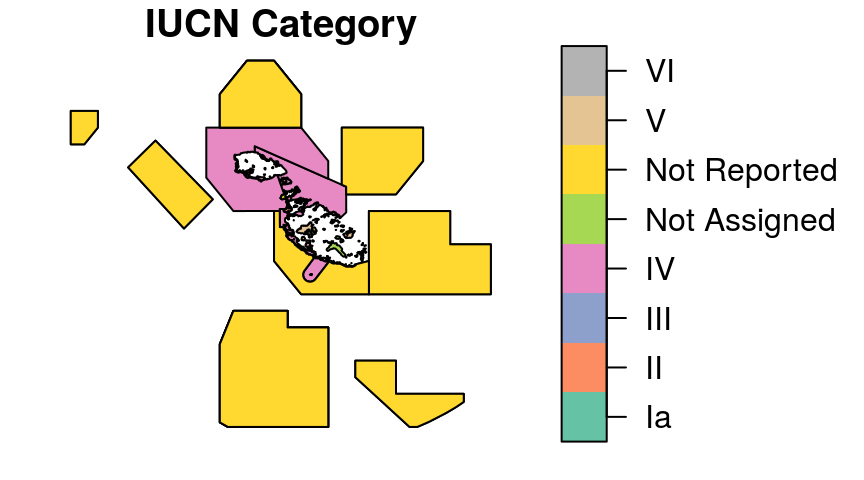
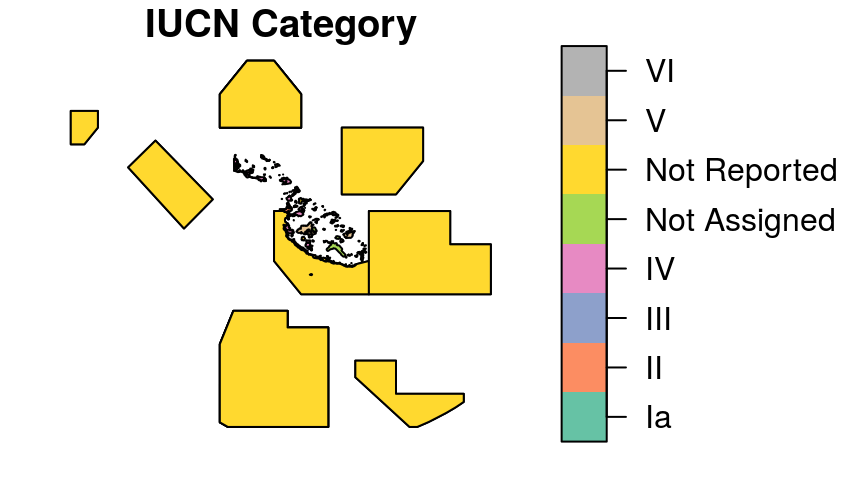
wdpa_clean now snaps geometries to grid

Changed region(s): [[0.2188, 0.25, 0.4062, 0.5], [0.3438, 0.5, 0.375, 0.5938]]

diff --git a/docs/reference/geometric_set_operations.html b/docs/reference/geometric_set_operations.html
@@ -156,19 +156,19 @@ to 1.</p></td>
 <span class='no'>y6</span> <span class='kw'>&lt;-</span> <span class='fu'>st_parallel_sym_difference</span>(<span class='no'>x</span>, <span class='no'>z</span>, <span class='kw'>threads</span> <span class='kw'>=</span> <span class='fl'>2</span>)</div><div class='output co'>#&gt; <span class='warning'>Warning: &lt;anonymous&gt;: ... may be used in an incorrect context: ‘.fun(piece, ...)’</span></div><div class='output co'>#&gt; <span class='warning'>Warning: &lt;anonymous&gt;: ... may be used in an incorrect context: ‘.fun(piece, ...)’</span></div><div class='input'>
 <span class='co'># plot objects for visual comparison</span>
 <span class='fu'>par</span>(<span class='kw'>mfrow</span> <span class='kw'>=</span> <span class='fu'>c</span>(<span class='fl'>4</span>, <span class='fl'>2</span>))
-<span class='fu'>plot</span>(<span class='fu'>st_geometry</span>(<span class='no'>x</span>), <span class='kw'>main</span> <span class='kw'>=</span> <span class='st'>"x"</span>, <span class='kw'>axes</span> <span class='kw'>=</span> <span class='fl'>TRUE</span>, <span class='kw'>col</span> <span class='kw'>=</span> <span class='st'>"lightblue"</span>)
-<span class='fu'>plot</span>(<span class='fu'>st_geometry</span>(<span class='no'>z</span>), <span class='kw'>main</span> <span class='kw'>=</span> <span class='st'>"z"</span>, <span class='kw'>axes</span> <span class='kw'>=</span> <span class='fl'>TRUE</span>, <span class='kw'>col</span> <span class='kw'>=</span> <span class='st'>"lightblue"</span>)
-<span class='fu'>plot</span>(<span class='fu'>st_geometry</span>(<span class='no'>y1</span>), <span class='kw'>main</span> <span class='kw'>=</span> <span class='st'>"sf::st_difference"</span>, <span class='kw'>axes</span> <span class='kw'>=</span> <span class='fl'>TRUE</span>,
+<span class='fu'>plot</span>(<span class='kw'>sf</span><span class='kw'>::</span><span class='fu'>st_geometry</span>(<span class='no'>x</span>), <span class='kw'>main</span> <span class='kw'>=</span> <span class='st'>"x"</span>, <span class='kw'>axes</span> <span class='kw'>=</span> <span class='fl'>TRUE</span>, <span class='kw'>col</span> <span class='kw'>=</span> <span class='st'>"lightblue"</span>)
+<span class='fu'>plot</span>(<span class='kw'>sf</span><span class='kw'>::</span><span class='fu'>st_geometry</span>(<span class='no'>z</span>), <span class='kw'>main</span> <span class='kw'>=</span> <span class='st'>"z"</span>, <span class='kw'>axes</span> <span class='kw'>=</span> <span class='fl'>TRUE</span>, <span class='kw'>col</span> <span class='kw'>=</span> <span class='st'>"lightblue"</span>)
+<span class='fu'>plot</span>(<span class='kw'>sf</span><span class='kw'>::</span><span class='fu'>st_geometry</span>(<span class='no'>y1</span>), <span class='kw'>main</span> <span class='kw'>=</span> <span class='st'>"sf::st_difference"</span>, <span class='kw'>axes</span> <span class='kw'>=</span> <span class='fl'>TRUE</span>,
      <span class='kw'>col</span> <span class='kw'>=</span> <span class='st'>"lightblue"</span>)
-<span class='fu'>plot</span>(<span class='fu'>st_geometry</span>(<span class='no'>y2</span>), <span class='kw'>main</span> <span class='kw'>=</span> <span class='st'>"st_parallel_difference"</span>, <span class='kw'>axes</span> <span class='kw'>=</span> <span class='fl'>TRUE</span>,
+<span class='fu'>plot</span>(<span class='kw'>sf</span><span class='kw'>::</span><span class='fu'>st_geometry</span>(<span class='no'>y2</span>), <span class='kw'>main</span> <span class='kw'>=</span> <span class='st'>"st_parallel_difference"</span>, <span class='kw'>axes</span> <span class='kw'>=</span> <span class='fl'>TRUE</span>,
      <span class='kw'>col</span> <span class='kw'>=</span> <span class='st'>"lightblue"</span>)
-<span class='fu'>plot</span>(<span class='fu'>st_geometry</span>(<span class='no'>y3</span>), <span class='kw'>main</span> <span class='kw'>=</span> <span class='st'>"sf::st_intersection"</span>, <span class='kw'>axes</span> <span class='kw'>=</span> <span class='fl'>TRUE</span>,
+<span class='fu'>plot</span>(<span class='kw'>sf</span><span class='kw'>::</span><span class='fu'>st_geometry</span>(<span class='no'>y3</span>), <span class='kw'>main</span> <span class='kw'>=</span> <span class='st'>"sf::st_intersection"</span>, <span class='kw'>axes</span> <span class='kw'>=</span> <span class='fl'>TRUE</span>,
      <span class='kw'>col</span> <span class='kw'>=</span> <span class='st'>"lightblue"</span>)
-<span class='fu'>plot</span>(<span class='fu'>st_geometry</span>(<span class='no'>y4</span>), <span class='kw'>main</span> <span class='kw'>=</span> <span class='st'>"st_parallel_intersection"</span>, <span class='kw'>axes</span> <span class='kw'>=</span> <span class='fl'>TRUE</span>,
+<span class='fu'>plot</span>(<span class='kw'>sf</span><span class='kw'>::</span><span class='fu'>st_geometry</span>(<span class='no'>y4</span>), <span class='kw'>main</span> <span class='kw'>=</span> <span class='st'>"st_parallel_intersection"</span>, <span class='kw'>axes</span> <span class='kw'>=</span> <span class='fl'>TRUE</span>,
      <span class='kw'>col</span> <span class='kw'>=</span> <span class='st'>"lightblue"</span>)
-<span class='fu'>plot</span>(<span class='fu'>st_geometry</span>(<span class='no'>y5</span>), <span class='kw'>main</span> <span class='kw'>=</span> <span class='st'>"sf::st_sym_difference"</span>, <span class='kw'>axes</span> <span class='kw'>=</span> <span class='fl'>TRUE</span>,
+<span class='fu'>plot</span>(<span class='kw'>sf</span><span class='kw'>::</span><span class='fu'>st_geometry</span>(<span class='no'>y5</span>), <span class='kw'>main</span> <span class='kw'>=</span> <span class='st'>"sf::st_sym_difference"</span>, <span class='kw'>axes</span> <span class='kw'>=</span> <span class='fl'>TRUE</span>,
      <span class='kw'>col</span> <span class='kw'>=</span> <span class='st'>"lightblue"</span>)
-<span class='fu'>plot</span>(<span class='fu'>st_geometry</span>(<span class='no'>y6</span>), <span class='kw'>main</span> <span class='kw'>=</span> <span class='st'>"st_parallel_sym_difference"</span>, <span class='kw'>axes</span> <span class='kw'>=</span> <span class='fl'>TRUE</span>,
+<span class='fu'>plot</span>(<span class='kw'>sf</span><span class='kw'>::</span><span class='fu'>st_geometry</span>(<span class='no'>y6</span>), <span class='kw'>main</span> <span class='kw'>=</span> <span class='st'>"st_parallel_sym_difference"</span>, <span class='kw'>axes</span> <span class='kw'>=</span> <span class='fl'>TRUE</span>,
      <span class='kw'>col</span> <span class='kw'>=</span> <span class='st'>"lightblue"</span>)</div><img src='geometric_set_operations-17.png' alt='' width='540' height='400' /></pre>
   </div>
   <div class="col-md-3 hidden-xs hidden-sm" id="sidebar">

diff --git a/docs/index.html b/docs/index.html
@@ -80,10 +80,12 @@ devtools<span class="op">::</span><span class="kw">install_github</span>(<span c
 <div id="example-usage" class="section level3">
 <h3 class="hasAnchor">
 <a href="#example-usage" class="anchor"></a>Example usage</h3>
-<p>Here we will provide a short introduction to the <em>wdpar</em> package.</p>
-<p>First, we will load the package. Note that it automatically attaches the <em>sf</em> and <em>dplyr</em> packages so that we can explore the data set.</p>
-<div class="sourceCode"><pre class="sourceCode r"><code class="sourceCode r"><span class="co"># load package</span>
-<span class="kw">library</span>(wdpar)</code></pre></div>
+<p>Here we will provide a short introduction to the <em>wdpar R</em> package.</p>
+<p>First, we will load the <em>wdpar R</em> package. We will also load the <em>sf</em> and <em>dplyr R</em> packages to help explore protected area data.</p>
+<div class="sourceCode"><pre class="sourceCode r"><code class="sourceCode r"><span class="co"># load packages</span>
+<span class="kw">library</span>(wdpar)
+<span class="kw">library</span>(sf)
+<span class="kw">library</span>(dplyr)</code></pre></div>
 <p>Now we will download protected area data for Malta. Note that we could have alternatively downloaded the data using Malta’s <a href="https://en.wikipedia.org/wiki/ISO_3166-1_alpha-3">ISO3 code</a> (MLT).</p>
 <div class="sourceCode"><pre class="sourceCode r"><code class="sourceCode r"><span class="co"># download protected area data for Malta</span>
 mlt_raw_pa_data &lt;-<span class="st"> </span><span class="kw"><a href="reference/wdpa_fetch.html">wdpa_fetch</a></span>(<span class="st">"Malta"</span>)</code></pre></div>
@@ -98,14 +100,13 @@ statistic &lt;-<span class="st"> </span>mlt_pa_data <span class="op">%&gt;%</spa
 
 <span class="co"># print statistic</span>
 <span class="kw">print</span>(statistic)</code></pre></div>
-<pre><code>##      area
-## 1 13239.2</code></pre>
+<pre><code>##           area
+## 1 1.237775e+16</code></pre>
 <p>We can also calculate the percentage of land inside <a href="https://www.iucn.org/theme/protected-areas/about/protected-area-categories">protected areas that are designated strictly to protect biodiversity (and also potentially geological/geomorphological features)</a>.</p>
 <div class="sourceCode"><pre class="sourceCode r"><code class="sourceCode r"><span class="co"># fetch spatial data for Malta's land mass and calculate its area (km^2)</span>
 mlt_land_data &lt;-<span class="st"> </span><span class="kw"><a href="reference/land_and_eez_fetch.html">land_and_eez_fetch</a></span>(<span class="st">"Malta"</span>) <span class="op">%&gt;%</span>
 <span class="st">                 </span><span class="kw">filter</span>(TYPE <span class="op">==</span><span class="st"> "LAND"</span>) <span class="op">%&gt;%</span>
-<span class="st">                 </span><span class="kw">summarize</span>(<span class="dt">area =</span> <span class="kw">st_area</span>(.)) <span class="op">%&gt;%</span>
-<span class="st">                 </span><span class="kw">mutate</span>(<span class="dt">area =</span> <span class="kw">as.numeric</span>(units<span class="op">::</span><span class="kw">set_units</span>(area, km<span class="op">^</span><span class="dv">2</span>)))
+<span class="st">                 </span><span class="kw">summarize</span>(<span class="dt">area =</span> <span class="kw">as.numeric</span>(<span class="kw">st_area</span>(.)) <span class="op">*</span><span class="st"> </span><span class="fl">1e+6</span>)
 
 <span class="co"># calculate percentage of land inside protected areas (km^2)</span>
 statistic &lt;-<span class="st"> </span>mlt_pa_data <span class="op">%&gt;%</span>
@@ -119,7 +120,7 @@ statistic &lt;-<span class="st"> </span>mlt_pa_data <span class="op">%&gt;%</spa
 <span class="co"># print statistic</span>
 <span class="kw">print</span>(statistic)</code></pre></div>
 <pre><code>##   area_protected total_land_area percentage_protected
-## 1      0.2503843        494.9871           0.05058401</code></pre>
+## 1    1.64027e+11    4.949871e+14           0.03313763</code></pre>
 <p>Finally, let’s plot a map showing Malta’s protected areas and color each area according to its management category.</p>
 <div class="sourceCode"><pre class="sourceCode r"><code class="sourceCode r">mlt_pa_data <span class="op">%&gt;%</span>
 <span class="kw">select</span>(IUCN_CAT) <span class="op">%&gt;%</span>
@@ -133,13 +134,13 @@ statistic &lt;-<span class="st"> </span>mlt_pa_data <span class="op">%&gt;%</spa
 <pre><code>
 To cite the wdpar package in publications, use:
 
-  UNEP-WCMC and IUCN (year), Protected Planet: The World Database
+  UNEP-WCMC and IUCN (2018) Protected Planet: The World Database
   on Protected Areas (WDPA), [insert month/year of the version
   downloaded], Cambridge, UK: UNEP-WCMC and IUCN. Available at:
   www.protectedplanet.net.
 
-  Hanson JO (2017) wdpar: Interface to the World Database on
-  Protected Areas. R package version 0.0.0.1 Available at:
+  Hanson JO (2018) wdpar: Interface to the World Database on
+  Protected Areas. R package version 0.0.0.1. Available at:
   https://github.com/jeffreyhanson/wdpar
 
 Please cite both the World Database on Protected Areas data set

diff --git a/docs/reference/wdpa_clean.html b/docs/reference/wdpa_clean.html
@@ -83,7 +83,7 @@
     <p>Clean data from the World Database on Protected Areas (WDPA).</p>
     
 
-    <pre class="usage"><span class='fu'>wdpa_clean</span>(<span class='no'>x</span>, <span class='kw'>crs</span> <span class='kw'>=</span> <span class='fl'>3395</span>, <span class='kw'>tolerance</span> <span class='kw'>=</span> <span class='fl'>0</span>, <span class='kw'>threads</span> <span class='kw'>=</span> <span class='fl'>1</span>,
+    <pre class="usage"><span class='fu'>wdpa_clean</span>(<span class='no'>x</span>, <span class='kw'>crs</span> <span class='kw'>=</span> <span class='fl'>3395</span>, <span class='kw'>tolerance</span> <span class='kw'>=</span> <span class='fl'>1</span>, <span class='kw'>threads</span> <span class='kw'>=</span> <span class='fl'>1</span>,
   <span class='kw'>verbose</span> <span class='kw'>=</span> <span class='fu'>interactive</span>())</pre>
     
     <h2 class="hasAnchor" id="arguments"><a class="anchor" href="#arguments"></a> Arguments</h2>
@@ -100,8 +100,8 @@ Defaults to <code>3395</code> (Mercator).</p></td>
     </tr>
     <tr>
       <th>tolerance</th>
-      <td><p><code>numeric</code> tolerance for simplifying geometry. Defaults
-to zero.</p></td>
+      <td><p><code>numeric</code> tolerance for snapping geometry to a
+grid for resolving invalid geometries.</p></td>
     </tr>
     <tr>
       <th>threads</th>
@@ -138,20 +138,15 @@ Defaults to 1.</p></td>
     <code>crs</code> (using <code><a href='st_parallel_transform.html'>st_parallel_transform</a></code>).</p></li>
 <li><p>Repair any invalid geometry that has since manifested (using
     <code><a href='st_parallel_make_valid.html'>st_parallel_make_valid</a></code>).</p></li>
-<li><p>Simplify the geometry using tolerance specified in argument
-    to <code>tolerance</code> (using <code><a href='st_parallel_simplify.html'>st_parallel_simplify</a></code>).</p></li>
 <li><p>Buffer areas represented as point localities to circular areas
     using their reported spatial extent (using data in the field
     <code>"REP_AREA"</code> and <code><a href='http://www.rdocumentation.org/packages/sf/topics/geos_unary'>st_buffer</a></code>).</p></li>
-<li><p>Extract terrestrial protected areas and erase regions that occur in
-    the ocean.</p></li>
+<li><p>Assemble land and exclusive economic zone data (using
+    <code><a href='land_and_eez_fetch.html'>land_and_eez_fetch</a></code>).</p></li>
+<li><p>Extract terrestrial protected areas and erase localities that occur
+   in the ocean.</p></li>
 <li><p>Extract marine protected areas and erase regions that occur on land.</p></li>
 <li><p>Merge terrestrial and marine protected area data sets.</p></li>
-<li><p>Erase overlapping geometries (discussed in Deguignet <em>et al.</em>
-    2017). Geometries are erased such that protected areas associated with
-    more effective management categories (<code>"IUCN_CAT"</code>) or have
-    historical precdence are retained (using
-    <code><a href='http://www.rdocumentation.org/packages/sf/topics/geos_binary_ops'>st_difference</a></code>).</p></li>
 <li><p>The <code>"MARINE"</code> field is converted from integer codes
     to descriptive name (<code>0</code> = <code>"terrestrial"</code>,
     <code>1</code> = <code>"partial"</code>, <code>2</code> = <code>"marine"</code>).</p></li>
@@ -161,10 +156,19 @@ Defaults to 1.</p></td>
     values for areas for with such data are not reported or applicable
     (i.e. areas with the values <code>"Not Applicable"</code>
     or <code>"Not Reported"</code> in the <code>"NO_TK_AREA"</code> field).</p></li>
-<li><p>Calculate size of areas in square kilometers (stored in field
-    <code>"AREA_KM2"</code>).</p></li>
+<li><p>Snap geometries to a grid to fix any unresolved geometry issues
+    using <code>link[lwgeom]{st_snap_to_grid}</code>.</p></li>
+<li><p>Repair any invalid geometry that has manifested (using
+    <code><a href='st_parallel_make_valid.html'>st_parallel_make_valid</a></code>).</p></li>
+<li><p>Erase overlapping geometries (discussed in Deguignet <em>et al.</em>
+    2017). Geometries are erased such that protected areas associated with
+    more effective management categories (<code>"IUCN_CAT"</code>) or have
+    historical precdence are retained (using
+    <code><a href='http://www.rdocumentation.org/packages/sf/topics/geos_binary_ops'>st_difference</a></code>).</p></li>
 <li><p>Slivers are removed (geometries an area less than 1e-10 square
     kilometers).</p></li>
+<li><p>Calculate size of areas in square kilometers (stored in field
+    <code>"AREA_KM2"</code>).</p></li>
 </ol>
     
     <h2 class="hasAnchor" id="references"><a class="anchor" href="#references"></a>References</h2>

diff --git a/docs/reference/wdpa_read.html b/docs/reference/wdpa_read.html
@@ -110,33 +110,20 @@ downloading and importing the data into the current session.</p>
 
     <h2 class="hasAnchor" id="examples"><a class="anchor" href="#examples"></a>Examples</h2>
     <pre class="examples"><div class='input'>
-<span class='co'># find working url for Liechtenstein data set</span>
-<span class='no'>possible_months</span> <span class='kw'>&lt;-</span> <span class='fu'>format</span>(<span class='fu'>Sys.Date</span>() - (<span class='fu'>seq</span>(-<span class='fl'>2</span>, <span class='fl'>10</span>) * <span class='fl'>30</span>), <span class='st'>"%b%Y"</span>)
-<span class='no'>potential_urls</span> <span class='kw'>&lt;-</span> <span class='fu'>paste0</span>(<span class='st'>"https://www.protectedplanet.net/downloads/WDPA_"</span>,
-                         <span class='no'>possible_months</span>, <span class='st'>"_LIE?type=shapefile"</span>)
-<span class='no'>found_url</span> <span class='kw'>&lt;-</span> <span class='fl'>FALSE</span>
-<span class='kw'>for</span> (<span class='no'>i</span> <span class='kw'>in</span> <span class='fu'>seq_along</span>(<span class='no'>potential_urls</span>)) {
-  <span class='kw'>if</span> (!<span class='kw'>httr</span><span class='kw'>::</span><span class='fu'>http_error</span>(<span class='no'>potential_urls</span>[<span class='no'>i</span>])) {
-    <span class='no'>download_url</span> <span class='kw'>&lt;-</span> <span class='no'>potential_urls</span>[<span class='no'>i</span>]
-    <span class='no'>found_url</span> <span class='kw'>&lt;-</span> <span class='fl'>TRUE</span>
-    <span class='kw'>break</span>()
-  }
-}
+<span class='co'># find url for Liechtenstein data set</span>
+<span class='no'>download_url</span> <span class='kw'>&lt;-</span> <span class='fu'><a href='wdpa_url.html'>wdpa_url</a></span>(<span class='st'>"LIE"</span>)
 
-<span class='co'># download the data set if working url was found</span>
-<span class='kw'>if</span> (<span class='no'>found_url</span>) {
-  <span class='co'># path to save file zipfile with data</span>
-  <span class='no'>path</span> <span class='kw'>&lt;-</span> <span class='fu'>tempfile</span>(<span class='kw'>pattern</span> <span class='kw'>=</span> <span class='st'>"WDPA_"</span>, <span class='kw'>fileext</span> <span class='kw'>=</span> <span class='st'>".zip"</span>)
+<span class='co'># path to save file zipfile with data</span>
+<span class='no'>path</span> <span class='kw'>&lt;-</span> <span class='fu'>tempfile</span>(<span class='kw'>pattern</span> <span class='kw'>=</span> <span class='st'>"WDPA_"</span>, <span class='kw'>fileext</span> <span class='kw'>=</span> <span class='st'>".zip"</span>)
 
-  <span class='co'># download zipfile</span>
-  <span class='no'>result</span> <span class='kw'>&lt;-</span> <span class='kw'>httr</span><span class='kw'>::</span><span class='fu'>GET</span>(<span class='no'>download_url</span>, <span class='kw'>httr</span><span class='kw'>::</span><span class='fu'>write_disk</span>(<span class='no'>path</span>))
+<span class='co'># download zipfile</span>
+<span class='no'>result</span> <span class='kw'>&lt;-</span> <span class='kw'>httr</span><span class='kw'>::</span><span class='fu'>GET</span>(<span class='no'>download_url</span>, <span class='kw'>httr</span><span class='kw'>::</span><span class='fu'>write_disk</span>(<span class='no'>path</span>))
 
-  <span class='co'># load data</span>
-  <span class='no'>lie_raw_data</span> <span class='kw'>&lt;-</span> <span class='fu'>wdpa_read</span>(<span class='no'>path</span>)
+<span class='co'># load data</span>
+<span class='no'>lie_raw_data</span> <span class='kw'>&lt;-</span> <span class='fu'>wdpa_read</span>(<span class='no'>path</span>)
 
-  <span class='co'># plot data</span>
-  <span class='fu'>plot</span>(<span class='no'>lie_raw_data</span>)
-}</div><div class='output co'>#&gt; <span class='warning'>Warning: plotting the first 9 out of 28 attributes; use max.plot = 28 to plot all</span></div><img src='wdpa_read-3.png' alt='' width='540' height='400' /><div class='input'>
+<span class='co'># plot data</span>
+<span class='fu'>plot</span>(<span class='no'>lie_raw_data</span>)</div><div class='output co'>#&gt; <span class='warning'>Warning: plotting the first 9 out of 28 attributes; use max.plot = 28 to plot all</span></div><img src='wdpa_read-3.png' alt='' width='540' height='400' /><div class='input'>
 </div></pre>
   </div>
   <div class="col-md-3 hidden-xs hidden-sm" id="sidebar">

diff --git a/docs/reference/land_and_eez_fetch.html b/docs/reference/land_and_eez_fetch.html
@@ -144,10 +144,12 @@ to <code>TRUE</code> if executed in an interactive session.</p></td>
     <p>Data are assembled using the following steps.</p><ol>
 <li><p>Spatial data showing the spatial extent of each country's terrestrial
   administrative area is downloaded (from the Database of Global
-  Administrative Areas; <a href = 'http://www.gadm.org/'>http://www.gadm.org/</a>)</p></li>
+  Administrative Areas; <a href = 'http://www.gadm.org/'>http://www.gadm.org/</a>). Note that the global
+  data set is approximately 800 MB in size.</p></li>
 <li><p>Spatial data showing the spatial extent of each country's exclusive
   economic zone are downloaded (from <a href = 'http://marineregions.org'>http://marineregions.org</a>; approx.
-  113 MB in size; Claus <em>at al.</em> 2017))</p></li>
+  113 MB in size; Claus <em>at al.</em> 2017)). Note that the global data
+  set is approximately 200 MB in size.</p></li>
 <li><p>Both data sets are scanned for invalid geometries, and invalid
   geometries are fixed (using <code><a href='st_parallel_make_valid.html'>st_parallel_make_valid</a></code>).</p></li>
 <li><p>Both data sets are reprojected to argument to <code>crs</code>.</p></li>
@@ -191,7 +193,7 @@ Available at <a href = 'http://www.marineregions.org'>http://www.marineregions.o
 <span class='fu'>plot</span>(<span class='no'>kna_data</span>)</div><img src='land_and_eez_fetch-2.png' alt='' width='540' height='400' /><div class='input'>
 <span class='fu'>not_run</span>({
   <span class='co'># fetch land and eez data for the planet</span>
-  <span class='no'>global_data</span> <span class='kw'>&lt;-</span> <span class='fu'>land_and_eez_fetch</span>(<span class='st'>"globe"</span>)
+  <span class='no'>global_data</span> <span class='kw'>&lt;-</span> <span class='fu'>land_and_eez_fetch</span>(<span class='st'>"global"</span>)
 })</div></pre>
   </div>
   <div class="col-md-3 hidden-xs hidden-sm" id="sidebar">

diff --git a/docs/reference/st_erase_overlaps.html b/docs/reference/st_erase_overlaps.html
@@ -117,7 +117,7 @@
 <span class='no'>pl3</span> <span class='kw'>&lt;-</span> <span class='kw'>sf</span><span class='kw'>::</span><span class='fu'>st_polygon</span>(<span class='fu'>list</span>(<span class='fu'>matrix</span>(<span class='fu'>c</span>(<span class='fl'>0</span>, <span class='fl'>1.25</span>, <span class='fl'>2</span>, <span class='fl'>1.25</span>, <span class='fl'>1</span>, <span class='fl'>2.5</span>, <span class='fl'>0</span>, <span class='fl'>1.25</span>),
                                   <span class='kw'>byrow</span> <span class='kw'>=</span> <span class='fl'>TRUE</span>, <span class='kw'>ncol</span> <span class='kw'>=</span> <span class='fl'>2</span>))) * <span class='fl'>100</span>
 <span class='no'>x</span> <span class='kw'>&lt;-</span> <span class='kw'>sf</span><span class='kw'>::</span><span class='fu'>st_sf</span>(<span class='kw'>order</span> <span class='kw'>=</span> <span class='fu'>c</span>(<span class='st'>"A"</span>, <span class='st'>"B"</span>, <span class='st'>"C"</span>),
-               <span class='kw'>geometry</span> <span class='kw'>=</span> <span class='fu'>st_sfc</span>(<span class='fu'>list</span>(<span class='no'>pl1</span>, <span class='no'>pl2</span>, <span class='no'>pl3</span>), <span class='kw'>crs</span> <span class='kw'>=</span> <span class='fl'>3395</span>))
+               <span class='kw'>geometry</span> <span class='kw'>=</span> <span class='kw'>sf</span><span class='kw'>::</span><span class='fu'>st_sfc</span>(<span class='fu'>list</span>(<span class='no'>pl1</span>, <span class='no'>pl2</span>, <span class='no'>pl3</span>), <span class='kw'>crs</span> <span class='kw'>=</span> <span class='fl'>3395</span>))
 
 <span class='co'># erase overlaps</span>
 <span class='no'>y</span> <span class='kw'>&lt;-</span> <span class='fu'>st_erase_overlaps</span>(<span class='no'>x</span>)

diff --git a/docs/reference/wdpa_url.html b/docs/reference/wdpa_url.html
@@ -108,7 +108,8 @@ be set to <code>"global"</code> to obtain the URL for the global data set.</p></
     
 
     <h2 class="hasAnchor" id="examples"><a class="anchor" href="#examples"></a>Examples</h2>
-    <pre class="examples"><div class='input'><span class='co'># obtain url for USA data</span>
+    <pre class="examples"><div class='input'>
+<span class='co'># obtain url for USA data</span>
 <span class='no'>usa_url</span> <span class='kw'>&lt;-</span> <span class='fu'>wdpa_url</span>(<span class='st'>"United States of America"</span>)
 <span class='fu'>print</span>(<span class='no'>usa_url</span>)</div><div class='output co'>#&gt; [1] "https://www.protectedplanet.net/downloads/WDPA_Dec2017_USA?type=shapefile"</div><div class='input'>
 <span class='co'># obtain url for USA data (using the ISO3 code)</span>
@@ -116,7 +117,8 @@ be set to <code>"global"</code> to obtain the URL for the global data set.</p></
 <span class='fu'>print</span>(<span class='no'>usa_url</span>)</div><div class='output co'>#&gt; [1] "https://www.protectedplanet.net/downloads/WDPA_Dec2017_USA?type=shapefile"</div><div class='input'>
 <span class='co'># download link for global data</span>
 <span class='no'>global_url</span> <span class='kw'>&lt;-</span> <span class='fu'>wdpa_url</span>(<span class='st'>"global"</span>)
-<span class='fu'>print</span>(<span class='no'>global_url</span>)</div><div class='output co'>#&gt; [1] "http://wcmc.io/wdpa_current_release"</div></pre>
+<span class='fu'>print</span>(<span class='no'>global_url</span>)</div><div class='output co'>#&gt; [1] "http://wcmc.io/wdpa_current_release"</div><div class='input'>
+</div></pre>
   </div>
   <div class="col-md-3 hidden-xs hidden-sm" id="sidebar">
     <h2>Contents</h2>

diff --git a/docs/reference/st_parallel_simplify.html b/docs/reference/st_parallel_simplify.html
@@ -125,8 +125,8 @@ to 1.</p></td>
 
     <h2 class="hasAnchor" id="examples"><a class="anchor" href="#examples"></a>Examples</h2>
     <pre class="examples"><div class='input'><span class='co'># load data</span>
-<span class='no'>nc</span> <span class='kw'>&lt;-</span> <span class='kw'>sf</span><span class='kw'>::</span><span class='fu'>read_sf</span>(<span class='fu'>system.file</span>(<span class='st'>"shape/nc.shp"</span>, <span class='kw'>package</span> <span class='kw'>=</span> <span class='st'>"sf"</span>)) <span class='kw'>%&gt;%</span>
-      <span class='kw'>sf</span><span class='kw'>::</span><span class='fu'>st_transform</span>(<span class='fl'>3395</span>)
+<span class='no'>nc</span> <span class='kw'>&lt;-</span> <span class='kw'>sf</span><span class='kw'>::</span><span class='fu'>read_sf</span>(<span class='fu'>system.file</span>(<span class='st'>"shape/nc.shp"</span>, <span class='kw'>package</span> <span class='kw'>=</span> <span class='st'>"sf"</span>))
+<span class='no'>nc</span> <span class='kw'>&lt;-</span> <span class='kw'>sf</span><span class='kw'>::</span><span class='fu'>st_transform</span>(<span class='no'>nc</span>, <span class='fl'>3395</span>)
 
 <span class='co'># simplify data to 1 km</span>
 <span class='no'>nc_simplified</span> <span class='kw'>&lt;-</span> <span class='kw'>sf</span><span class='kw'>::</span><span class='fu'>st_simplify</span>(<span class='no'>nc</span>, <span class='kw'>dTolerance</span> <span class='kw'>=</span> <span class='fl'>5000</span>)

diff --git a/README.md b/README.md
@@ -60,8 +60,8 @@ statistic <- mlt_pa_data %>%
 print(statistic)
 ```
 
-    ##          area
-    ## 1 1.32392e+16
+    ##           area
+    ## 1 1.237775e+16
 
 We can also calculate the percentage of land inside [protected areas that are designated strictly to protect biodiversity (and also potentially geological/geomorphological features)](https://www.iucn.org/theme/protected-areas/about/protected-area-categories).
 
@@ -85,7 +85,7 @@ print(statistic)
 ```
 
     ##   area_protected total_land_area percentage_protected
-    ## 1   250384329610    4.949871e+14           0.05058401
+    ## 1    1.64027e+11    4.949871e+14           0.03313763
 
 Finally, let's plot a map showing Malta's protected areas and color each area according to its management category.
 
@@ -104,12 +104,12 @@ Please use the following references for citing the *wdpar R* package and the Wor
 
     To cite the wdpar package in publications, use:
 
-      UNEP-WCMC and IUCN (2017) Protected Planet: The World Database
+      UNEP-WCMC and IUCN (2018) Protected Planet: The World Database
       on Protected Areas (WDPA), [insert month/year of the version
       downloaded], Cambridge, UK: UNEP-WCMC and IUCN. Available at:
       www.protectedplanet.net.
 
-      Hanson JO (2017) wdpar: Interface to the World Database on
+      Hanson JO (2018) wdpar: Interface to the World Database on
       Protected Areas. R package version 0.0.0.1. Available at:
       https://github.com/jeffreyhanson/wdpar
 
